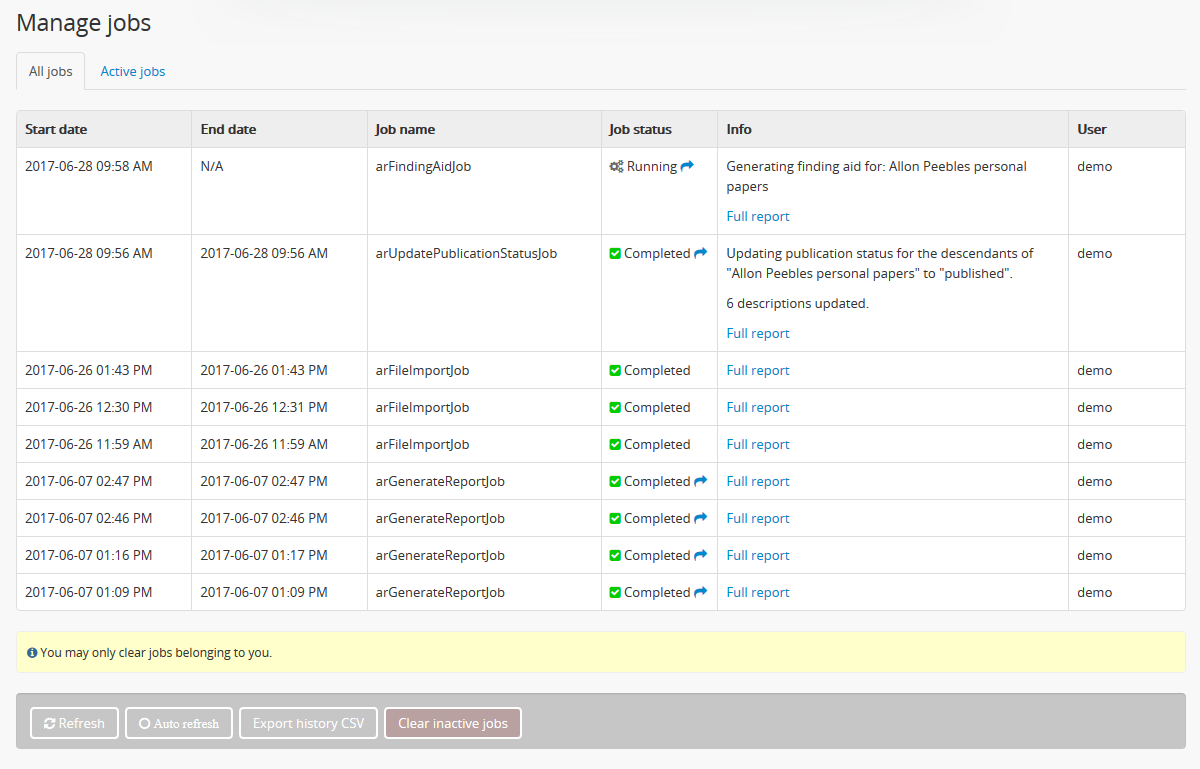
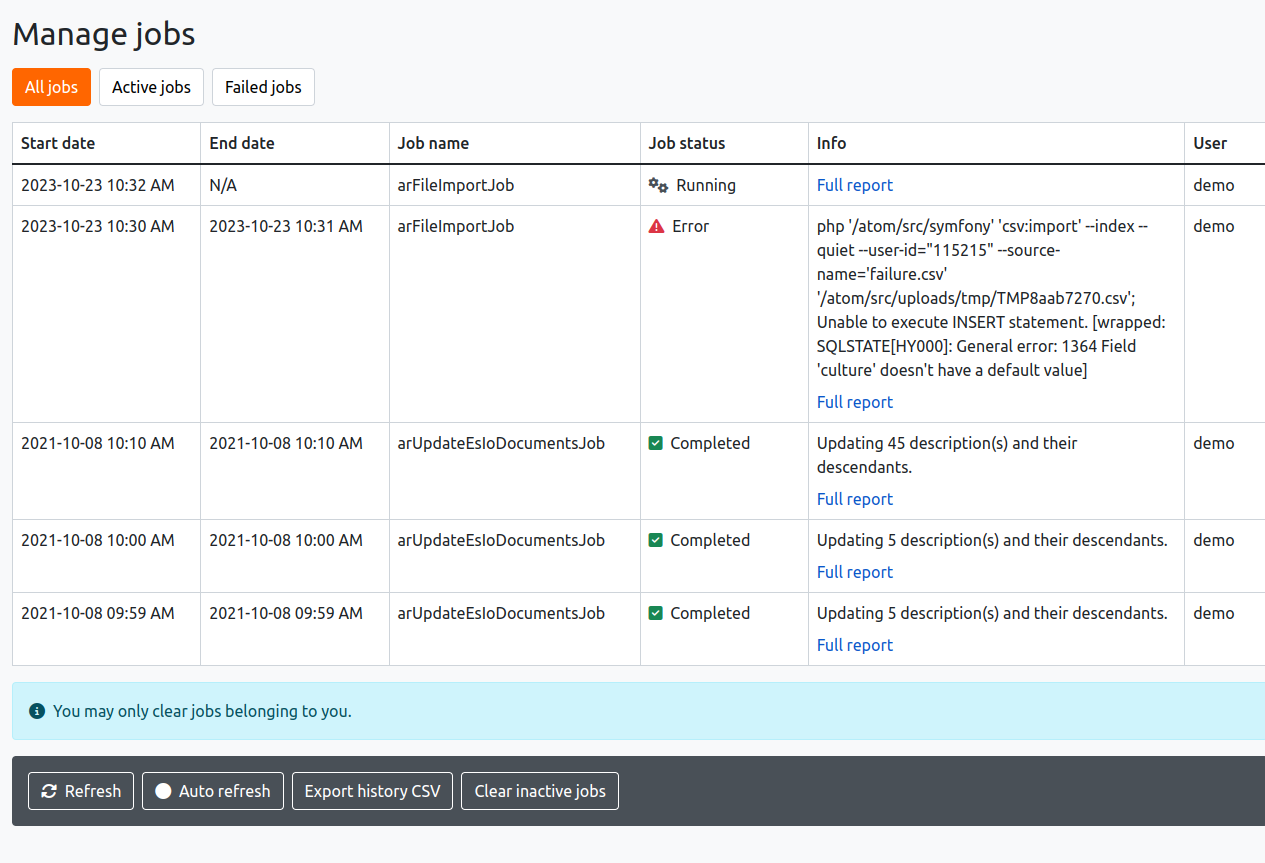
Update Manage jobs doc with Failed jobs. (#235)

diff --git a/user-manual/administer/manage-jobs.rst b/user-manual/administer/manage-jobs.rst
@@ -21,7 +21,7 @@ browser.
 .. IMPORTANT::
 
    You must have the necessary dependencies installed and configured to be able
-   manage asynchronous jobs in AtoM. See: 
+   manage asynchronous jobs in AtoM. See:
 
    * Installation: :ref:`installation-ubuntu-serve-workers`.
    * :ref:`maintenance-asynchronous-jobs`
@@ -110,16 +110,17 @@ below: :ref:`job-details`.
 
 **User**: The :term:`username` of the AtoM user who initiated the job.
 
-.. image:: images/manage-jobs-active-tab.*
+.. image:: images/manage-jobs-tabs.*
    :align: right
    :width: 20%
-   :alt: An image of the Jobs page tab
+   :alt: An image of the Jobs page tabs
 
-The Jobs page also includes a tab that allows users to view only those jobs that
-are currently still being executed (e.g., a status of "Running"). This can be
-useful when a large number of jobs are being executed simultaneously, and/or the
-list of jobs has not been cleared in some time. Click on the blue hyperlink to
-switch the view from "All jobs" to "Active jobs". AtoM will refresh the page and
+The Jobs page also includes tabs that allows users to view only those jobs that
+are currently still being executed (e.g., a status of "Running") or jobs that
+have failed (e.g., a status of "Error"). These can be useful when a large number
+of jobs are being executed simultaneously, and/or the list of jobs has not been
+cleared in some time. Click on one of the other tabs to switch the view from
+"All jobs" to "Active jobs" or "Failed jobs". AtoM will refresh the page and
 the table will be limited to the selected view.
 
 .. _jobs-button-block:
@@ -187,9 +188,9 @@ AtoM will indicate this in the jobs page with a message.
 .. SEEALSO::
 
    The Administrator's manual includes installation instructions for setting up
-   `Gearman <http://gearman.org>`__ and asynchronous job support in AtoM. A 
-   separate page also includes some examples of how to manage workers and 
-   jobs from the command-line. For more information, see: 
+   `Gearman <http://gearman.org>`__ and asynchronous job support in AtoM. A
+   separate page also includes some examples of how to manage workers and
+   jobs from the command-line. For more information, see:
 
    * Installation: :ref:`installation-ubuntu-serve-workers`.
    * :ref:`maintenance-asynchronous-jobs`
@@ -228,6 +229,6 @@ All authenticated (e.g. logged in) users can access the Jobs page. However, most
 users will only see jobs and be able to clear jobs which they have started. Only
 an :term:`administrator` can see the status of all jobs - however, like all users,
 administrators can only clear jobs that belong to them. Administrators can clear
-jobs that are associated with tasks run on the command-line. 
+jobs that are associated with tasks run on the command-line.
 
 :ref:`Back to top <manage-jobs>`
